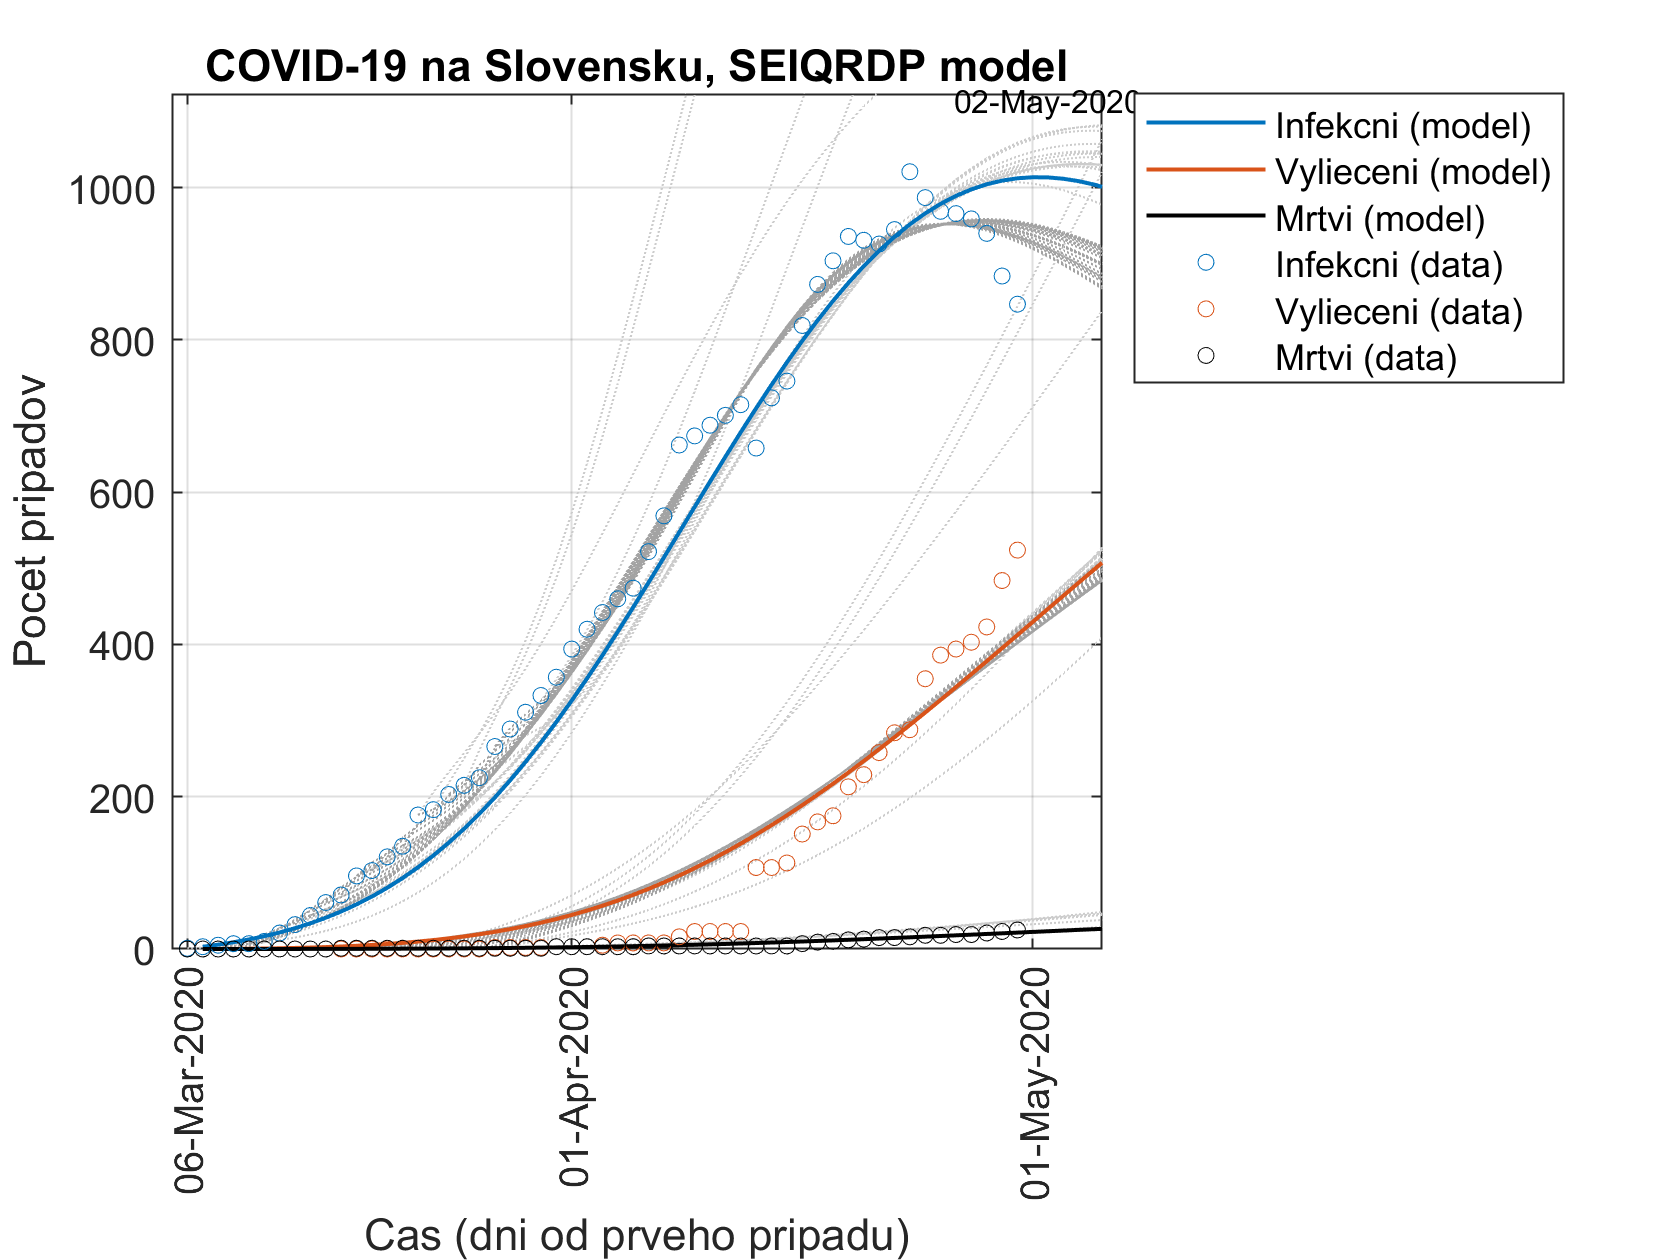
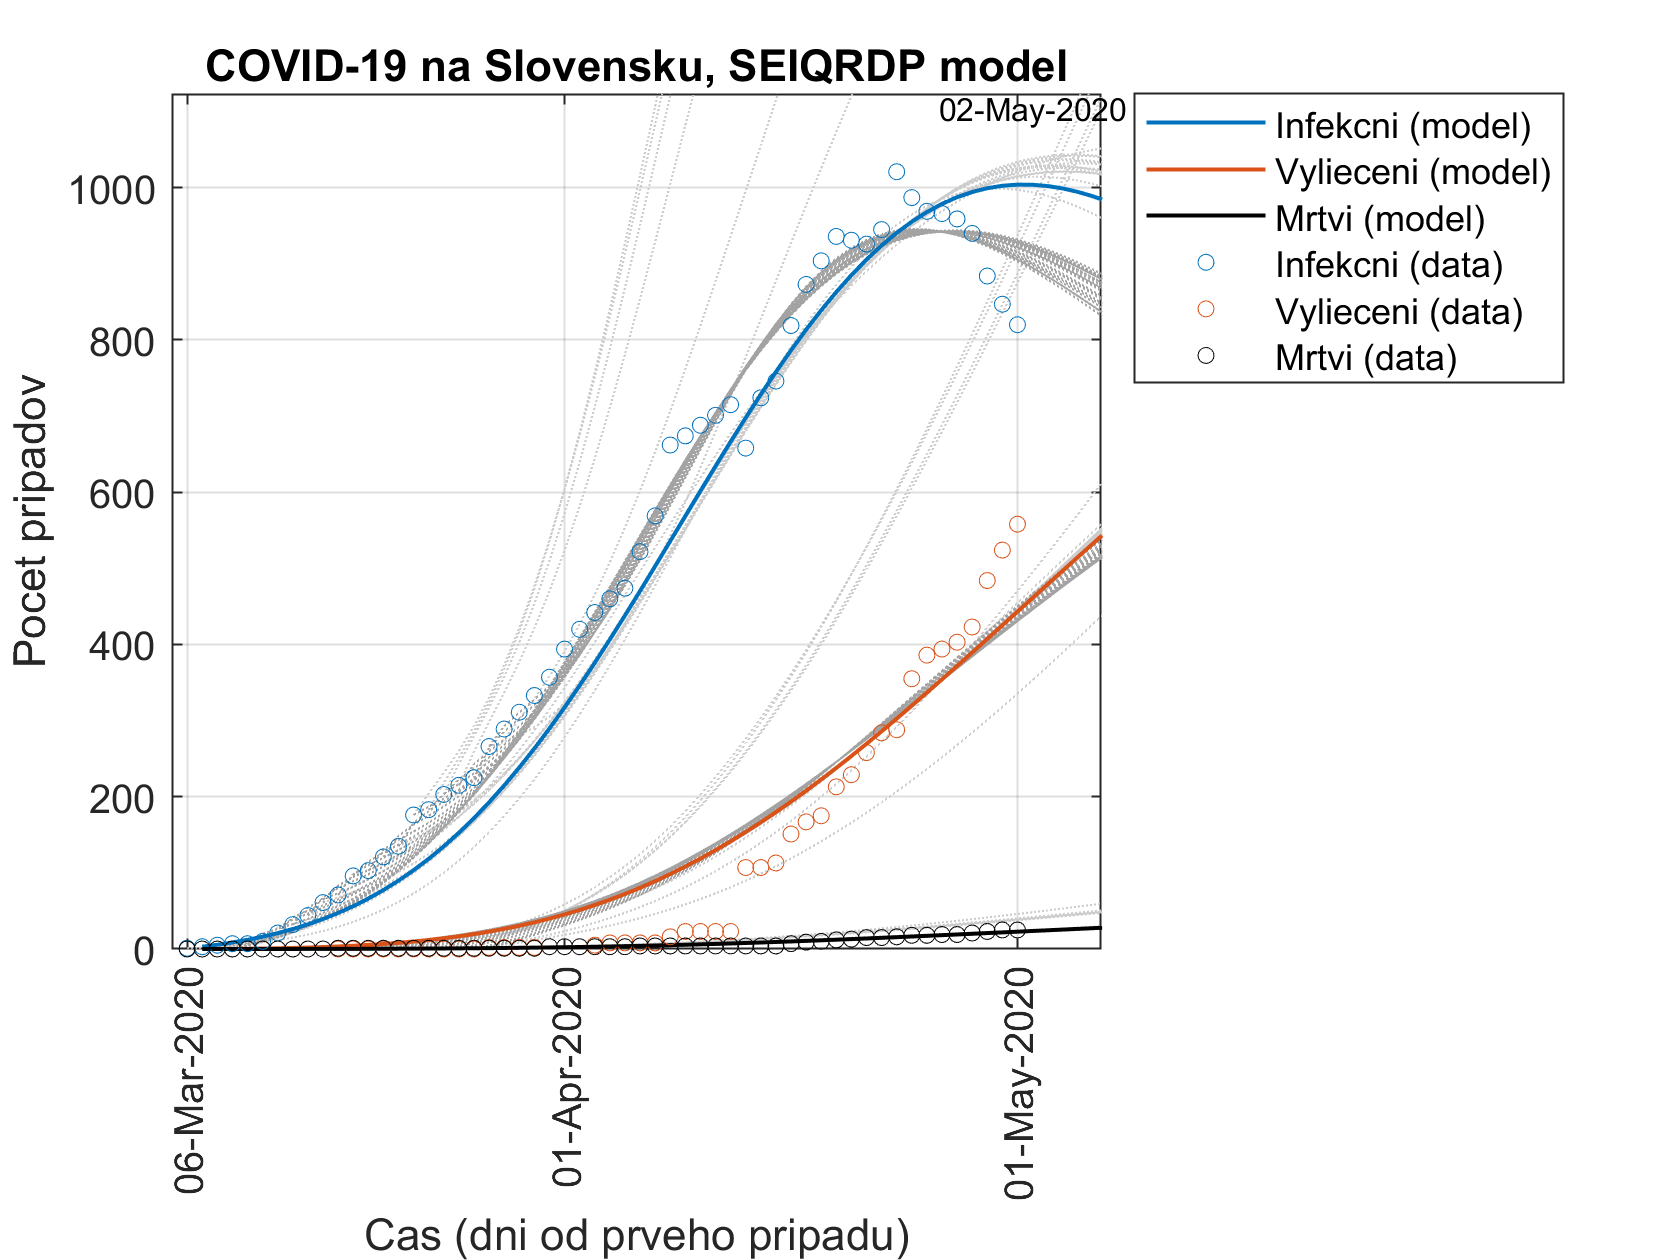
Daily update

diff --git a/SEIQRDP_ID.m b/SEIQRDP_ID.m
@@ -22,8 +22,8 @@ fitPrev=inf;
 fitBeginBest=1;
 
 
-fitTestBegin=4;
-fitTestSpan=31;
+fitTestBegin=1;
+fitTestSpan=21;
 
 %fitTestSpan=31;
 
